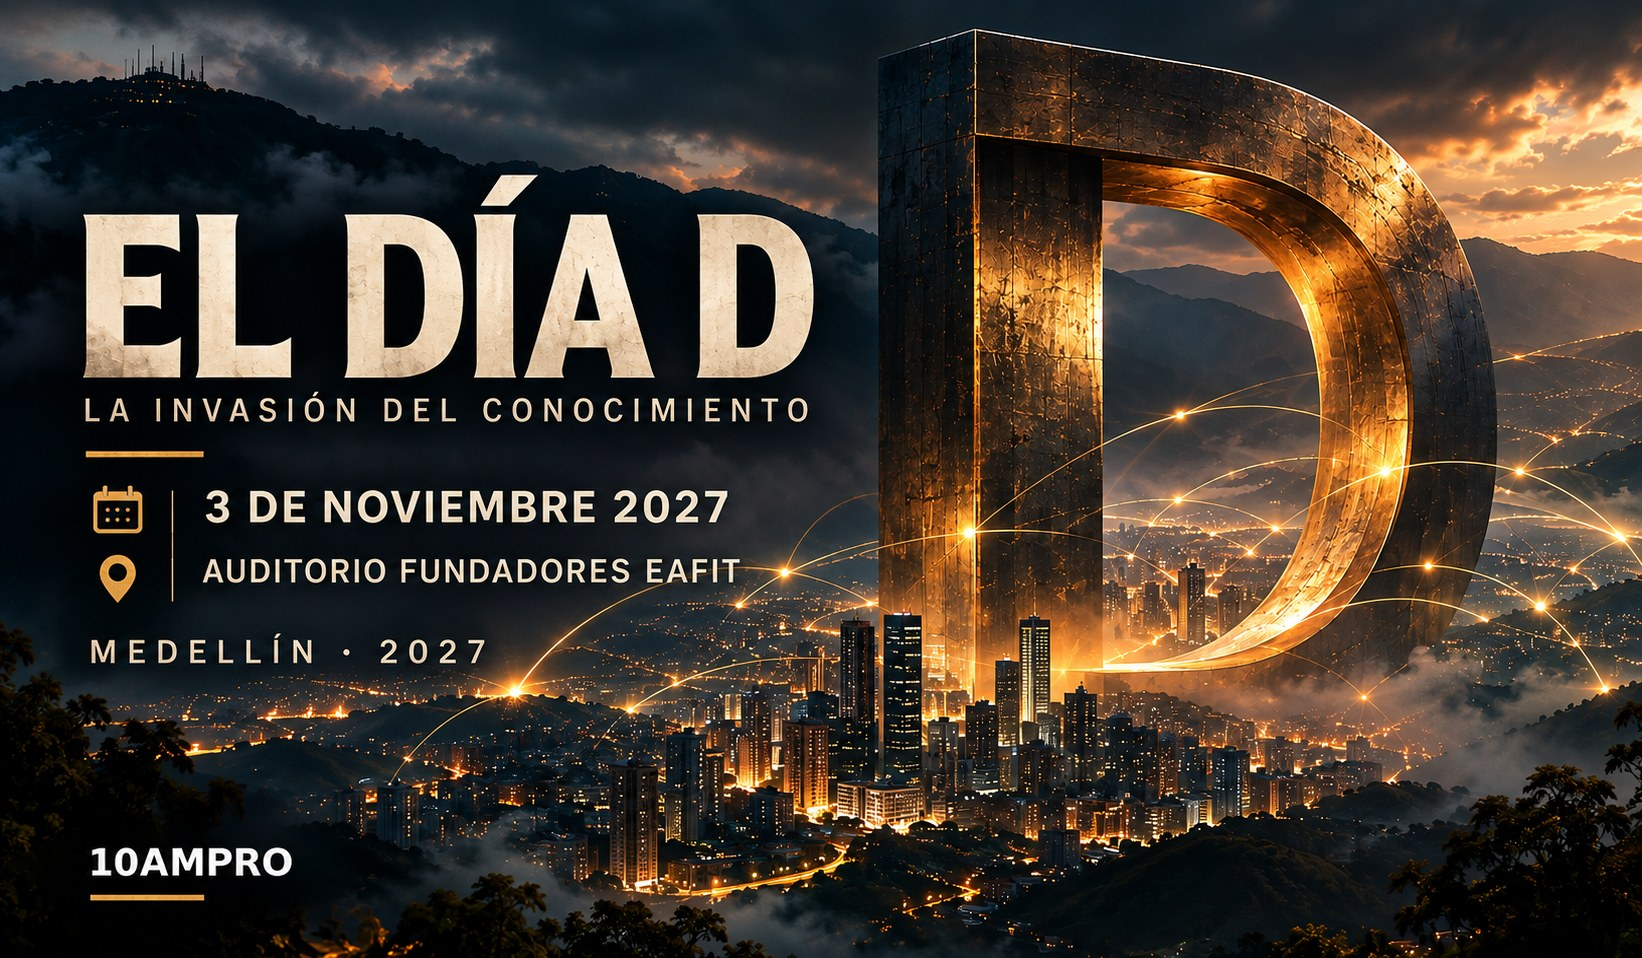
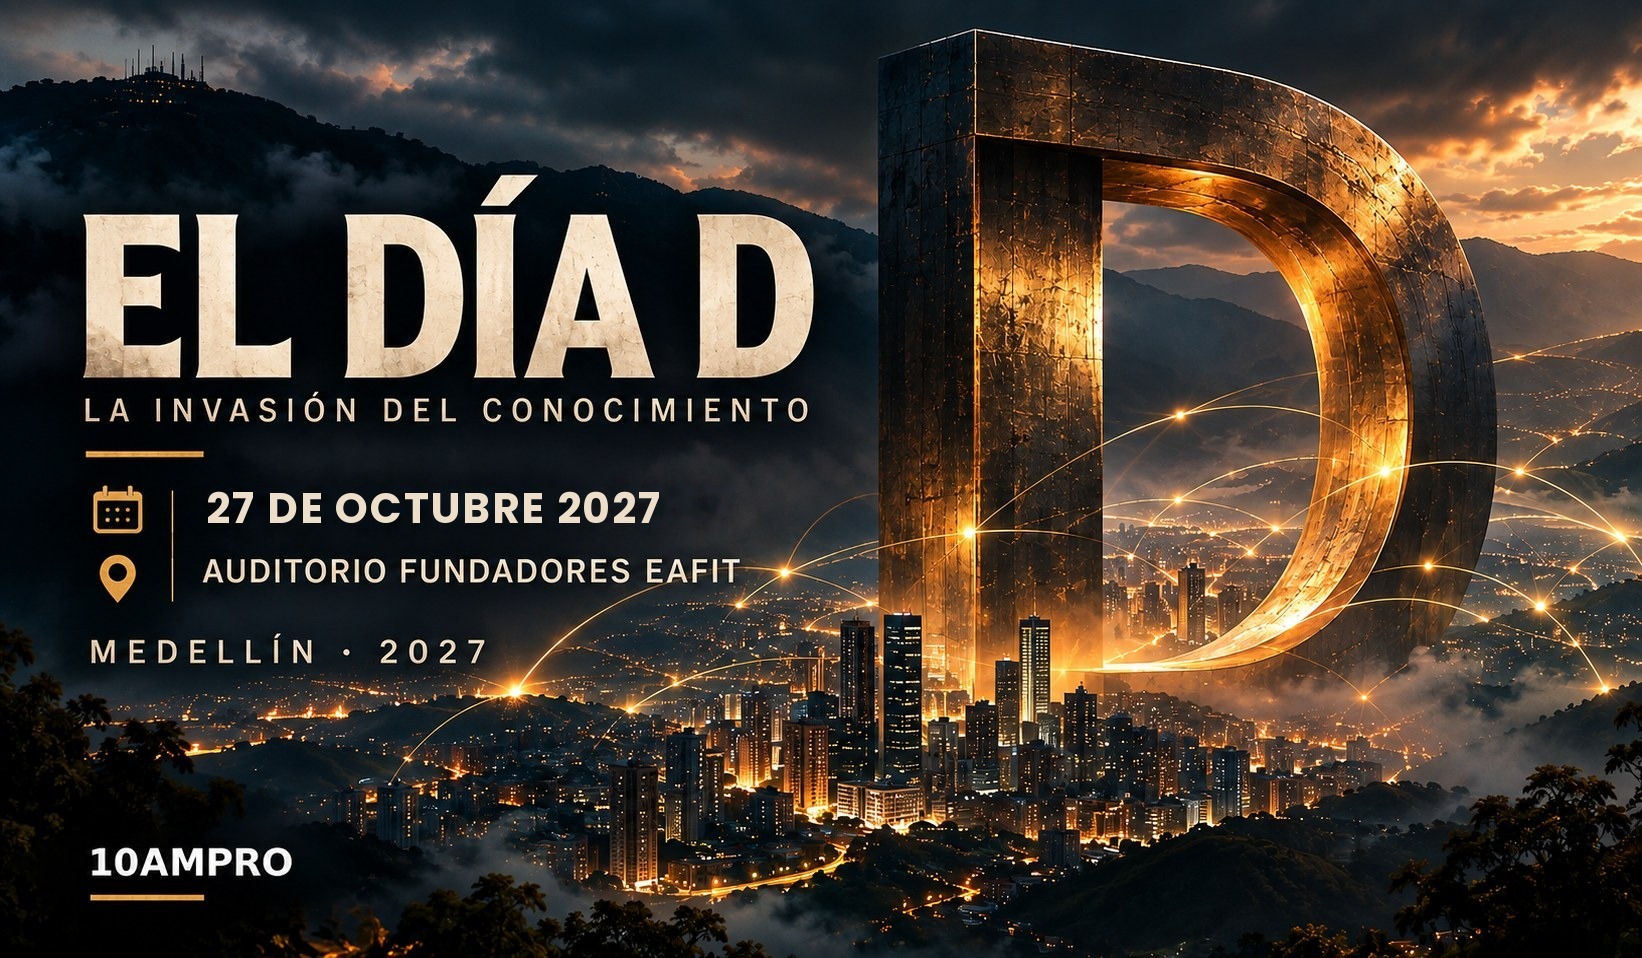
El Día D: fecha pasa a miércoles 27 de octubre de 2027
Claude-Session: https://claude.ai/code/session_01TfaB5HkwJwBToqjkiNnoQE

Changed region(s): [[0.1242, 0.5146, 0.4659, 0.5449]]

diff --git a/index.html b/index.html
@@ -4,7 +4,7 @@
 <meta charset="UTF-8" />
 <meta name="viewport" content="width=device-width, initial-scale=1.0" />
 <title>El Día D · 10ampro</title>
-<meta name="description" content="El Día D vuelve a Medellín el 3 de noviembre de 2027 · Auditorio Fundadores, EAFIT · Invitados: Gerardo Delgado (NVIDIA) y Andrés Bilbao (Rappi, 30X) · 580 cupos · Early bird USD 150 hasta el 31 de diciembre." />
+<meta name="description" content="El Día D vuelve a Medellín el 27 de octubre de 2027 · Auditorio Fundadores, EAFIT · Invitados: Gerardo Delgado (NVIDIA) y Andrés Bilbao (Rappi, 30X) · 580 cupos · Early bird USD 150 hasta el 31 de diciembre." />
 <link rel="icon" type="image/svg+xml" href="/favicon.svg" />
 <link rel="icon" type="image/png" sizes="32x32" href="/favicon-32.png" />
 <link rel="icon" type="image/png" sizes="16x16" href="/favicon-16.png" />
@@ -12,21 +12,21 @@
 <link rel="apple-touch-icon" sizes="180x180" href="/apple-touch-icon.png" />
 <meta name="theme-color" content="#08070a" />
 <meta property="og:title" content="El Día D · 10ampro" />
-<meta property="og:description" content="Hay un nuevo péptido del conocimiento transformando a Medellín, y su nombre es El Día D. 3 de noviembre de 2027 · Auditorio Fundadores, EAFIT · 580 cupos · Early bird USD 150 hasta el 31 de diciembre." />
-<meta property="og:image" content="https://eldiad.10am.pro/og-2027.jpg?v=1" />
-<meta property="og:image:secure_url" content="https://eldiad.10am.pro/og-2027.jpg?v=1" />
+<meta property="og:description" content="Hay un nuevo péptido del conocimiento transformando a Medellín, y su nombre es El Día D. 27 de octubre de 2027 · Auditorio Fundadores, EAFIT · 580 cupos · Early bird USD 150 hasta el 31 de diciembre." />
+<meta property="og:image" content="https://eldiad.10am.pro/og-2027.jpg?v=2" />
+<meta property="og:image:secure_url" content="https://eldiad.10am.pro/og-2027.jpg?v=2" />
 <meta property="og:image:type" content="image/jpeg" />
 <meta property="og:image:width" content="1200" />
 <meta property="og:image:height" content="630" />
-<meta property="og:image:alt" content="El Día D — La invasión del conocimiento · 3 de noviembre de 2027 · Auditorio Fundadores, EAFIT · Medellín" />
+<meta property="og:image:alt" content="El Día D — La invasión del conocimiento · 27 de octubre de 2027 · Auditorio Fundadores, EAFIT · Medellín" />
 <meta property="og:url" content="https://eldiad.10am.pro/" />
 <meta property="og:type" content="website" />
 <meta property="og:site_name" content="10ampro" />
 <meta property="og:locale" content="es_CO" />
 <meta name="twitter:card" content="summary_large_image" />
 <meta name="twitter:title" content="El Día D · 10ampro" />
-<meta name="twitter:description" content="El Día D vuelve a Medellín — 3 de noviembre de 2027 · 580 cupos · Early bird USD 150 hasta el 31 de diciembre" />
-<meta name="twitter:image" content="https://eldiad.10am.pro/og-2027.jpg?v=1" />
+<meta name="twitter:description" content="El Día D vuelve a Medellín — 27 de octubre de 2027 · 580 cupos · Early bird USD 150 hasta el 31 de diciembre" />
+<meta name="twitter:image" content="https://eldiad.10am.pro/og-2027.jpg?v=2" />
 <meta name="twitter:image:alt" content="El Día D — 10ampro" />
 <link rel="preload" as="image" href="/dday-roster.png" />
 <link rel="preconnect" href="https://fonts.googleapis.com" />
@@ -78,7 +78,7 @@ body::after{
 /* Blurred version of same image fills letterbox area for cinematic atmosphere */
 .cinema .bg-blur{
   position:absolute;inset:-8%;z-index:0;
-  background-image:url("/hero-2027.jpg");
+  background-image:url("/hero-2027.jpg?v=2");
   background-size:cover;
   background-position:center;
   filter:blur(60px) brightness(0.32) saturate(1.18);
@@ -87,7 +87,7 @@ body::after{
 /* Sharp full image — never cropped */
 .cinema .stage{
   position:absolute;inset:0;z-index:1;
-  background-image:url("/hero-2027.jpg");
+  background-image:url("/hero-2027.jpg?v=2");
   background-size:cover;
   background-position:center;
   background-repeat:no-repeat;
@@ -643,7 +643,7 @@ src="https://www.facebook.com/tr?id=27858108270474533&ev=PageView&noscript=1"
     <span class="center">
       <span>Próxima edición</span><span class="sep">·</span><span>Medellín</span><span class="sep">·</span><span style="color:#e8c777">580 cupos</span>
     </span>
-    <span class="anno" style="white-space:nowrap">3 · Nov · 2027</span>
+    <span class="anno" style="white-space:nowrap">27 · Oct · 2027</span>
   </div>
   <a class="logo" href="https://10am.pro" target="_blank" rel="noopener" aria-label="10ampro · ir a 10am.pro">
     <img src="https://manifiesto.10am.pro/logo.jpg" alt="10ampro" />
@@ -658,7 +658,7 @@ src="https://www.facebook.com/tr?id=27858108270474533&ev=PageView&noscript=1"
 
 <section class="section countdown" id="boletas" style="max-width:880px">
   <div class="eyebrow" data-en="Next edition">Próxima edición</div>
-  <div class="target" data-en="Wednesday, November 3, 2027 · Auditorio Fundadores, Universidad EAFIT · Medellín · doors 9:00 AM · talks 10:00 AM to 5:00 PM">Miércoles 3 de noviembre de 2027 · Auditorio Fundadores, Universidad EAFIT · Medellín · puertas 9:00 AM · charlas 10:00 AM a 5:00 PM</div>
+  <div class="target" data-en="Wednesday, October 27, 2027 · Auditorio Fundadores, Universidad EAFIT · Medellín · doors 9:00 AM · talks 10:00 AM to 5:00 PM">Miércoles 27 de octubre de 2027 · Auditorio Fundadores, Universidad EAFIT · Medellín · puertas 9:00 AM · charlas 10:00 AM a 5:00 PM</div>
 
   <div class="tiers" style="margin-top:34px">
 
@@ -726,7 +726,7 @@ src="https://www.facebook.com/tr?id=27858108270474533&ev=PageView&noscript=1"
   </div>
   <div class="hotels-zone" style="margin:48px auto 0;max-width:620px;text-align:center;opacity:0.9">
     <div style="font-family:var(--mono);font-size:9px;letter-spacing:0.4em;color:var(--gold-dim);text-transform:uppercase;margin-bottom:12px" data-en="Where to stay">Dónde quedarse</div>
-    <p style="font-family:var(--serif);font-style:italic;color:var(--cream-dim);font-size:14px;line-height:1.6;margin-bottom:0" data-en="For those traveling to Medellín: two allied hotels keep a special rate for Día D attendees. Book the night of November 3, 2027 (Gold: November 4 as well); the codes already work.">Para quienes viajan a Medellín: dos hoteles aliados mantienen tarifa especial para asistentes del Día D. Reserven la noche del 3 de noviembre de 2027 (Gold: también la del 4); los códigos ya funcionan.</p>
+    <p style="font-family:var(--serif);font-style:italic;color:var(--cream-dim);font-size:14px;line-height:1.6;margin-bottom:0" data-en="For those traveling to Medellín: two allied hotels keep a special rate for Día D attendees. Book the night of October 27, 2027 (Gold: October 28 as well); the codes already work.">Para quienes viajan a Medellín: dos hoteles aliados mantienen tarifa especial para asistentes del Día D. Reserven la noche del 27 de octubre de 2027 (Gold: también la del 28); los códigos ya funcionan.</p>
     <div class="hotels">
       <div class="hotel">
         <span class="logobox"><img class="zarzo" src="/zarzo-logo.png" alt="El Zarzo" loading="lazy" /></span>
@@ -879,10 +879,10 @@ src="https://www.facebook.com/tr?id=27858108270474533&ev=PageView&noscript=1"
     <img src="/speaker-bilbao.jpg" alt="Andrés Bilbao" loading="lazy" style="width:164px;height:164px;border-radius:50%;object-fit:cover;border:1.5px solid rgba(196,164,100,0.5);box-shadow:0 0 0 1px rgba(0,0,0,0.5) inset,0 10px 30px rgba(0,0,0,0.55),0 0 44px rgba(196,164,100,0.14)" />
   </div>
   <div class="name">Andrés Bilbao</div>
-  <div class="confirmed" data-en="Confirmed · El Día D · November 3, 2027">Confirmado · El Día D · 3 de noviembre de 2027</div>
+  <div class="confirmed" data-en="Confirmed · El Día D · October 27, 2027">Confirmado · El Día D · 27 de octubre de 2027</div>
   <div class="role" data-en="Rappi co-founder · 30X co-founder and CEO · the man who called the cohosts crybabies">Cofundador de Rappi · Cofundador y CEO de 30X · el que llamó llorones a los cohosts</div>
   <p data-en="Andrés Bilbao co-founded Rappi, Colombia's first unicorn: more than USD 2.3 billion raised and a machine that produced more founders than any university in the country. Today he invests as an angel and runs 30X, the school and investment firm he founded to manufacture the next generation.">Andrés Bilbao cofundó Rappi, el primer unicornio colombiano: más de USD 2.300 millones levantados y una máquina que produjo más fundadores que cualquier universidad del país. Hoy invierte como ángel y dirige 30X, la escuela y firma de inversión que fundó para fabricar la siguiente camada.</p>
-  <p data-en="At 10ampro there have already been two rounds. In the first one he called the cohosts crybabies for complaining about Colombia: for him, telling people the country is impossible does more damage than taxes. The second one was live and was titled Patriotas Inmolados. The third is on November 3, with five hundred people in the room.">En 10ampro ya hubo dos rounds. En el primero llamó llorones a los cohosts por quejarse de Colombia: para él, el mensaje de que el país es imposible hace más daño que los impuestos. El segundo fue en vivo y se tituló Patriotas Inmolados. El tercero es el 3 de noviembre, con quinientas personas en la sala.</p>
+  <p data-en="At 10ampro there have already been two rounds. In the first one he called the cohosts crybabies for complaining about Colombia: for him, telling people the country is impossible does more damage than taxes. The second one was live and was titled Patriotas Inmolados. The third is on October 27, with five hundred people in the room.">En 10ampro ya hubo dos rounds. En el primero llamó llorones a los cohosts por quejarse de Colombia: para él, el mensaje de que el país es imposible hace más daño que los impuestos. El segundo fue en vivo y se tituló Patriotas Inmolados. El tercero es el 27 de octubre, con quinientas personas en la sala.</p>
   <p data-en="His thesis is uncomfortable for anyone looking abroad: in Colombia it can be done, and the complaint costs more than the tax. The difference with most people who say that is that he has a unicorn to prove it.">Su tesis es incómoda para quien mira hacia afuera: en Colombia sí se puede, y la queja sale más cara que el impuesto. La diferencia con la mayoría de los que lo dicen es que él tiene un unicornio para demostrarlo.</p>
   <div class="pod">
     <div class="label" data-en="Round #2 · live">Round #2 · en vivo</div>
@@ -923,7 +923,7 @@ src="https://www.facebook.com/tr?id=27858108270474533&ev=PageView&noscript=1"
   <div style="display:inline-block;padding:28px 44px;border-top:1px solid var(--line);border-bottom:1px solid var(--line)">
     <div style="font-family:var(--mono);font-size:11px;letter-spacing:0.5em;color:var(--gold);text-transform:uppercase;margin-bottom:12px;opacity:0.92" data-en="Operation · Medellín">Operación · Medellín</div>
     <div style="width:60px;height:1px;background:var(--gold);margin:0 auto 16px;opacity:0.6"></div>
-    <div style="font-family:var(--display);font-size:clamp(20px,3.4vw,28px);letter-spacing:0.22em;color:var(--cream);text-transform:uppercase;font-weight:500;margin-bottom:10px" data-en="November 3, 2027">3 de noviembre de 2027</div>
+    <div style="font-family:var(--display);font-size:clamp(20px,3.4vw,28px);letter-spacing:0.22em;color:var(--cream);text-transform:uppercase;font-weight:500;margin-bottom:10px" data-en="October 27, 2027">27 de octubre de 2027</div>
     <div style="font-family:var(--serif);font-style:italic;font-size:clamp(14px,2.1vw,17px);color:var(--cream-dim);letter-spacing:0.04em" data-en="Auditorio Fundadores · Universidad EAFIT · Medellín">Auditorio Fundadores · Universidad EAFIT · Medellín</div>
   </div>
 </section>
@@ -1156,7 +1156,7 @@ document.querySelectorAll('.pod .frame, .talks .frame').forEach(function(f){
   var mEl = document.getElementById('cd-m');
   var sEl = document.getElementById('cd-s');
   if (!dEl) return;
-  var target = new Date('2027-11-03T09:00:00-05:00').getTime();
+  var target = new Date('2027-10-27T09:00:00-05:00').getTime();
   function tick(){
     var diff = Math.max(0, target - Date.now());
     dEl.textContent = String(Math.floor(diff / 86400000)).padStart(3,'0');

diff --git a/_STATUS.md b/_STATUS.md
@@ -168,3 +168,8 @@ Mide CLIC a Luma, no PAGO (el pago vive en Luma, caja negra). Cierre pendiente: 
 - Delgado: interesado, confirma más cerca de la fecha → label "Invitado · confirmación más cerca de la fecha" (cambiar a "Confirmado · El Día D · 3 de noviembre de 2027" cuando confirme). Pod facade data-id QgWVt-cLwHs. X: @gerdelgado.
 - Foto: speaker-delgado.jpg (640x640 circular) tomada del avatar de X @gerdelgado. Truco sin Chrome: función temporal api/avatar.js en el repo (fetch a unavatar.io/x/<handle>, devuelve hex) + Vercel web_fetch → decodificar en local → borrar la función. El fallback "GD" por onerror queda en el markup por si falta la imagen.
 - Encabezado Speakers ahora "Los invitados" (dos primeros: uno confirmado y uno en camino).
+
+## Update 10 nov 2026 — Fecha movida a miércoles 27 oct 2027
+- Antes 3 nov 2027. Cambiado en index.html: metas/OG, HUD, target, hoteles (noche del 27; Gold también la del 28), labels de speakers, countdown JS → 2027-10-27T09:00-05:00.
+- Poster hero-2027.jpg y og-2027.jpg: fecha repintada sobre la imagen (inpaint + Poppins Bold), cache-bust ?v=2.
+- PENDIENTE fuera del repo: fecha en los dos eventos Luma (10ampro-pc0p General, 10ampro-zcoo Gold) y sus covers; /aliados sigue diciendo "fecha por anunciar".
